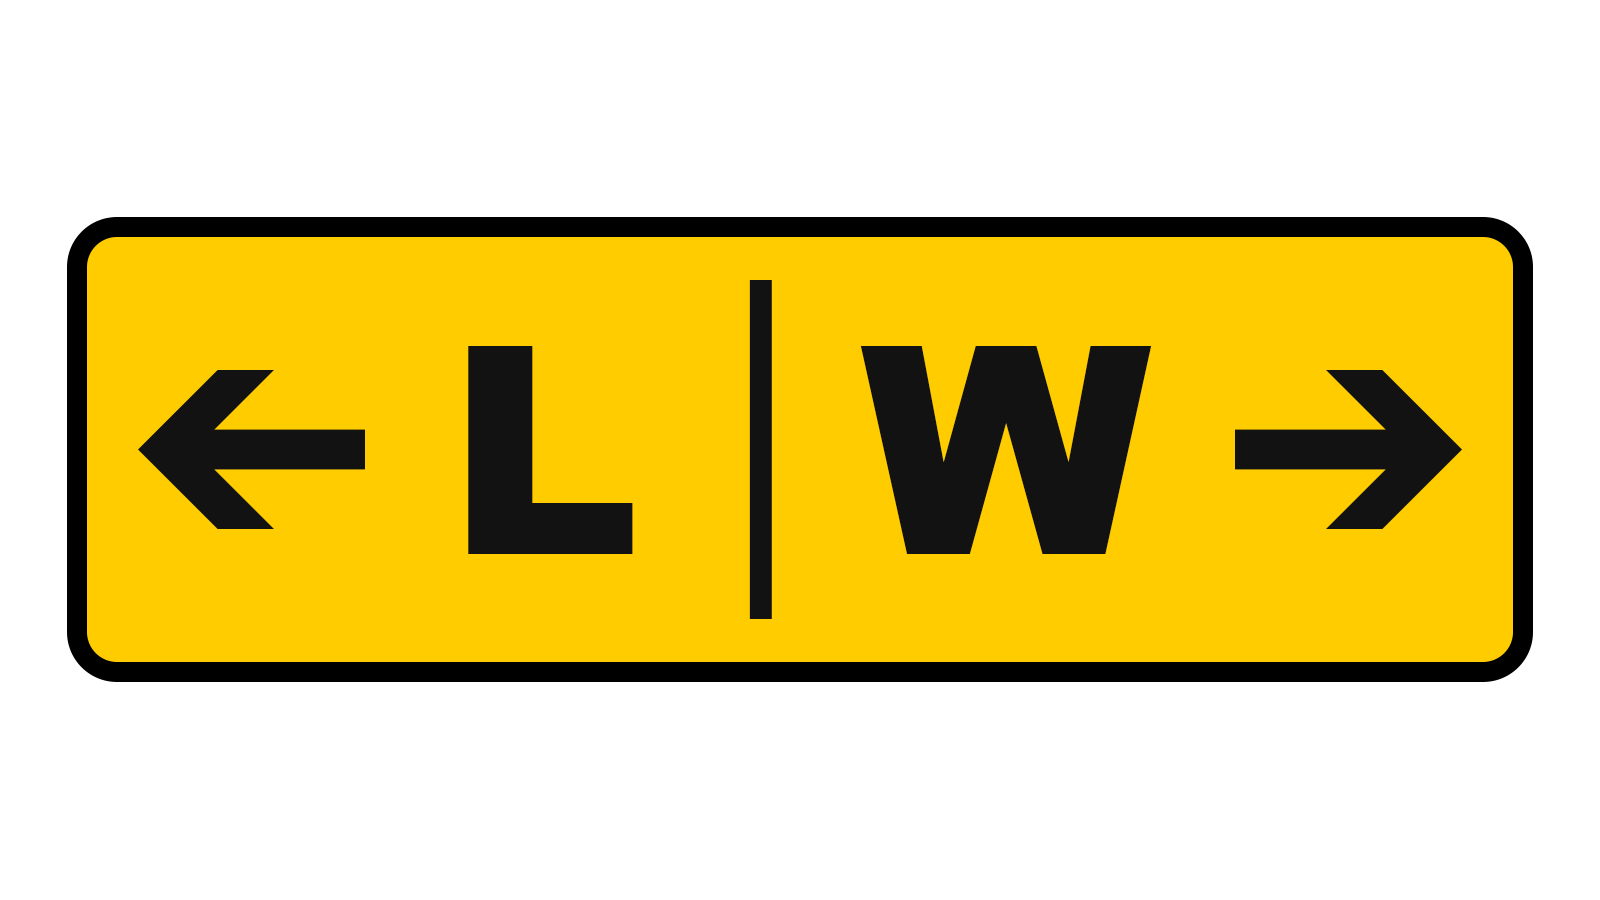
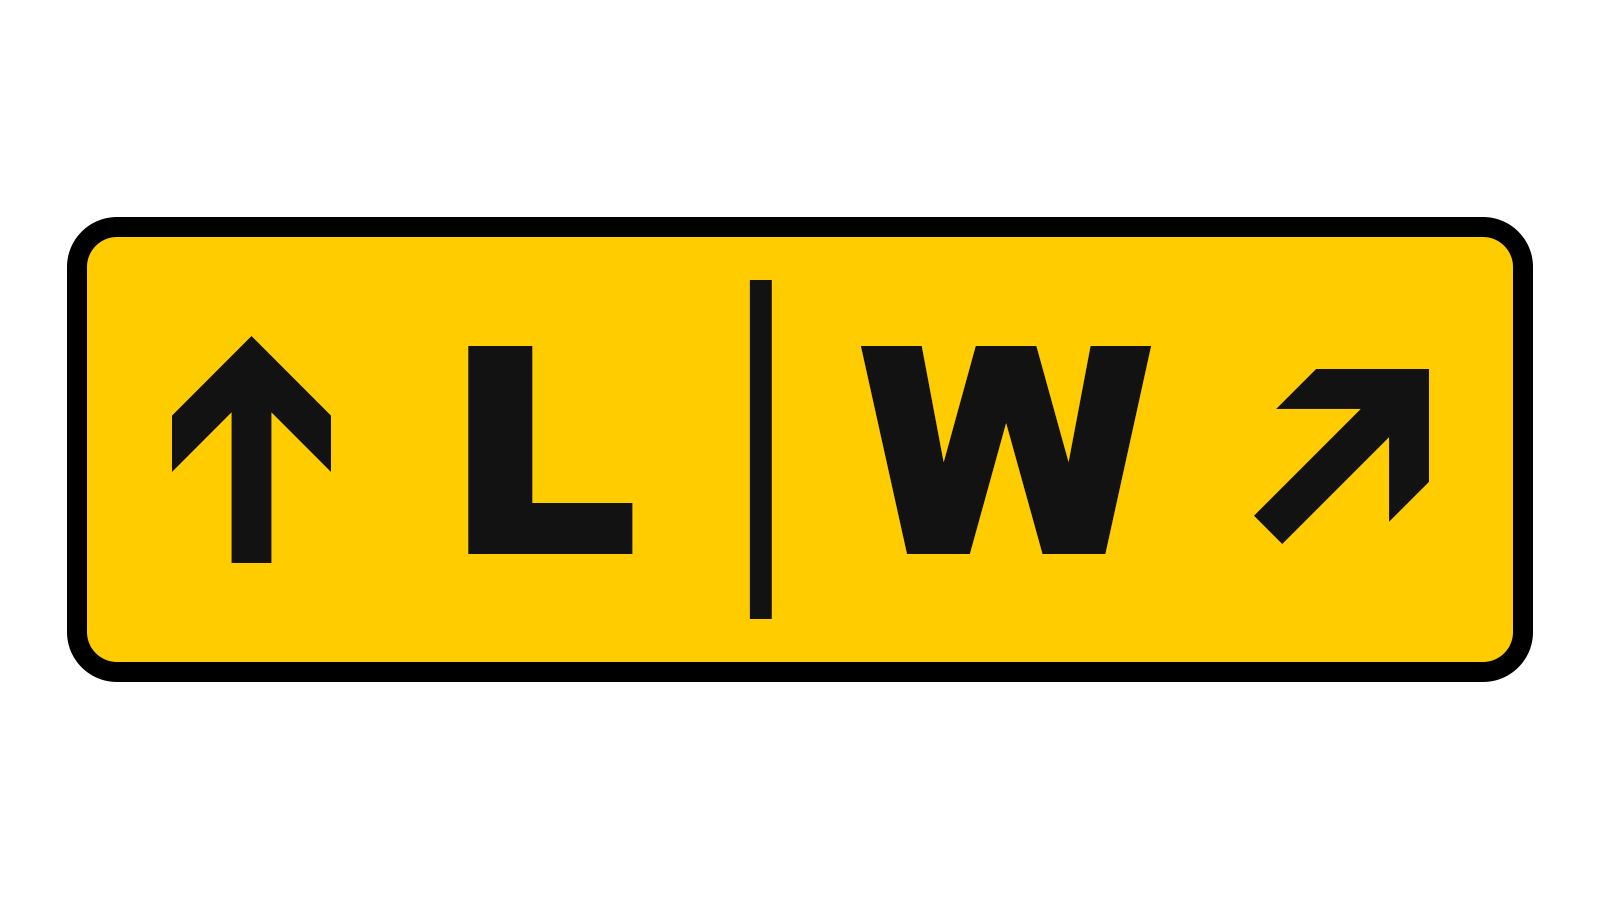
Content Updates

Changed region(s): [[0.75, 0.4044, 0.9062, 0.6222], [0.0938, 0.3733, 0.25, 0.6222]]

diff --git a/src/content/sites/LogbookWrapped.md b/src/content/sites/LogbookWrapped.md
@@ -1,24 +1,43 @@
 ---
 title: "LogbookWrapped"
-status: "Concept Phase"
-description: "A Spotify Wrapped Experience for Pilots to Visualize Their Flying Data"
+status: "Live"
+description: "A privacy-first web app that transforms EFB logbook exports into shareable aviation stories"
 heroImage: "/images/thumbnails/LogbookWrapped-card.png"
+url: "https://logbookwrapped.conway.im"
+gitUrl: "https://github.com/thebronway/LogbookWrapped"
 ---
-# A "Spotify Wrapped" Experience for Pilots to Visualize Their Flying Data.
+# A privacy-first web app that transforms EFB logbook exports into shareable aviation stories.
 
-**LogbookWrapped** is a privacy-first web app that transforms CSV exports from an EFBs (like ForeFlight, Garmin Pilot, or MyFlightbook) into a visually stunning "passport" of a pilot’s flying history. Pilots get a highly shareable, story-format breakdown of their flight hours, routes, aircraft, and aviation extremes, ready to be exported directly to social media or aviation forums.
+![Version](https://img.shields.io/badge/version-v0.5.0-blue.svg)
+![Privacy](https://img.shields.io/badge/privacy-100%25_client--side-green.svg)
+
+**LogbookWrapped** is "Spotify Wrapped for Pilots." It transforms CSV exports from an EFBs (like ForeFlight, Garmin Pilot, or MyFlightbook) into a “passport” of a pilot’s flying history. Pilots get a shareable, story-format breakdown of their flight hours, routes, aircraft, and aviation extremes, which are all ready to be exported directly to social media or aviation forums.
 
 > **Note:** All processing happens entirely in the web browser and not sent to our server. Meaning personal flight logs and data remain 100% private.
 
-## Goal
-
-My main goal was to take those raw standard EFB exports and extract flight data without sacrificing user privacy. I wanted to build an instantly loading, high-end "Story Mode" application that natively generates shareable, visually stunning statistics—turning a raw ledger of hours into a personalized aviation footprint.
-
 ## Features
 
-* **The Aviator Cover:** Generates a high-end title card summarizing total hours and automatically calculates home base from departure data.
-* **Footprint Map:** Plots a map with glowing route arcs connecting flights, highlighting longest cross-country and total unique airports visited.
-* **Fleet Breakdown:** Highlights primary airframes and visualizes  time split across aircraft types (complex, high-performance, ASEL, AMEL).
-* **ESuperlatives:** Extracts the fun and competitive stats, identifying  busiest month, shortest "quickie" flight, total night flying "Vampire mode", and actual vs. simulated instrument time.
-* **The Touchdowns:** Calculates total day and night landings, complete with a fun nod passenger currency.
-* **The "Money Pit":** Estimates total fuel burn based on specific aircraft type codes and total hours flown.
+* **Story Mode Interface:** A 7-page animated experience detailing total hours, sorties, and home base status.
+* **The Footprint Map:** Flight path visualization that auto-scales from local practice areas to global dark-mode world maps.
+* **Fleet Diversity Tracking:** Analytical breakdown of primary aircraft loyalty versus "aviation promiscuity" across unique tail numbers.
+* **Aviation Extremes:** Automatic identification of the "Quickie" (shortest flight) and the "Long Haul" (longest distance).
+* **Superlative Logic:** Fun, data-driven milestones including Landing-to-Hour ratios and "Airport Identifier" collection stats.
+* **Privacy-First Processing:** 100% client-side JavaScript parsing. No FAA numbers, names, or routes ever touch a server.
+* **Smart Column Mapping:** Advanced normalization engine that auto-detects EFB providers (ForeFlight, Garmin, LogTen) based on CSV headers.
+* **Social Export:** HTML5 Canvas integration to generate 9:16 vertical infographics for Instagram and TikTok.
+
+## The Passport Experience
+
+* **The Aviator:** Total hours and sorties with dynamic copywriting based on experience level.
+* **The Footprint:** Geographic coverage area analysis and furthest distance comparisons.
+* **The Fleet:** Loyalty stats for primary aircraft and airframe variety.
+* **The Big Picture:** Monumental time and distance conversions (e.g., Laps around the Earth).
+* **The Extremes:** Analysis of the shortest and longest hops in the logbook.
+* **Superlatives:** Landing frequency and unique airport "Nomad" status.
+* **In The Elements:** Breakdown of night hours, actual IMC time, and estimated AvGas fuel burn.
+
+## Monetization & Integration
+
+* **AvGas Tip Jar:** Integrated low-friction micro-transaction gateway for user support.
+* **Print-on-Demand Posters:** Direct integration with Printful/Printify APIs to turn flight path maps into 24x36 matte posters.
+  * **Note:** Users that choose to use the Printful/Printify service will be alerted that only the data being printed, will be sent through our server for processing. 

diff --git a/src/content/projects/DomainCtrl.md b/src/content/projects/DomainCtrl.md
@@ -9,7 +9,11 @@ heroImage: "/images/thumbnails/domainCtrl-card.png"
 ---
 # A Self-Hosted, Automated DDNS & SSL Certificate Manager. 
 
-> **Note:** This app is nearing is in active development and should be used with caution.
+![License](https://img.shields.io/badge/license-MIT-blue.svg)
+![Version](https://img.shields.io/badge/version-v0.6.5-blue.svg)
+![Docker](https://img.shields.io/docker/pulls/thebronway/domainctrl?logo=docker)
+
+> **Note:** This app is in active development and should be used with caution.
 
 > **Note:** Currently domainCtrl only supports AWS Route 53 (more providers coming soon).
 

diff --git a/src/content/projects/MyLogbookVault.md b/src/content/projects/MyLogbookVault.md
@@ -6,6 +6,8 @@ heroImage: "/images/thumbnails/MyLogbookVault-card.png"
 ---
 # A Pilots Self-Hosted Digital Logbook Backup and Stats
 
+![Version](https://img.shields.io/badge/version-v0.0.0-blue.svg)
+
 > **Note:** This project is its initial concept phase 
 
 ## Purpose

diff --git a/src/content/sites/StampAtlas.md b/src/content/sites/StampAtlas.md
@@ -6,6 +6,8 @@ heroImage: "/images/thumbnails/StampAtlas-card.png"
 ---
 # A Social Passport Travel App
 
+![Version](https://img.shields.io/badge/version-v0.0.0-blue.svg)
+
 > **Note:** This site is its initial concept phase
 
 ## Purpose

diff --git a/src/content/sites/WxDecoder.md b/src/content/sites/WxDecoder.md
@@ -8,6 +8,8 @@ heroImage: "/images/thumbnails/WxDecoder-card.png"
 ---
 # A Situational Awareness Tool for Pilots to Decode Weather & NOTAMs.
 
+![Version](https://img.shields.io/badge/version-v0.7.6-blue.svg)
+
 **WxDecoder** is a situational awareness support tool that aggregates real-time aviation data and uses OpenAI to generate plain-English condition reports. It deciphers raw METARs, TAFs, and NOTAMs based on your specific aircraft profile to help enhance your preflight situational awareness.
 
 > **Note:** AI normalizes data and can make errors. Always verify with official sources.

diff --git a/src/content/sites/followersCompare.md b/src/content/sites/followersCompare.md
@@ -8,6 +8,8 @@ heroImage: "/images/thumbnails/FollowersCompare-card.png"
 ---
 # A Privacy Focused App to Analyze Instagram Followers
 
+![Version](https://img.shields.io/badge/version-v0.2.0-blue.svg)
+
 ## Purpose
 A privacy-focused tool designed to analyze your Instagram connections. It allows you to compare your "Followers" vs. "Following" lists to identify who isn't following you back, while also tracking follower trends (gains and losses) over time using historical data.
 

diff --git a/src/content/sites/mudrun101.md b/src/content/sites/mudrun101.md
@@ -6,6 +6,8 @@ heroImage: "/images/thumbnails/mudrun101-card.png"
 ---
 # An OCR Mud Run Guide
 
+![Version](https://img.shields.io/badge/version-v0.0.0-blue.svg)
+
 > **Note:** Development on this site is currently paused. I'm evaluating the niche audience to determine the best path forward and analyzing the project's longterm viability.
 
 ## Purpose